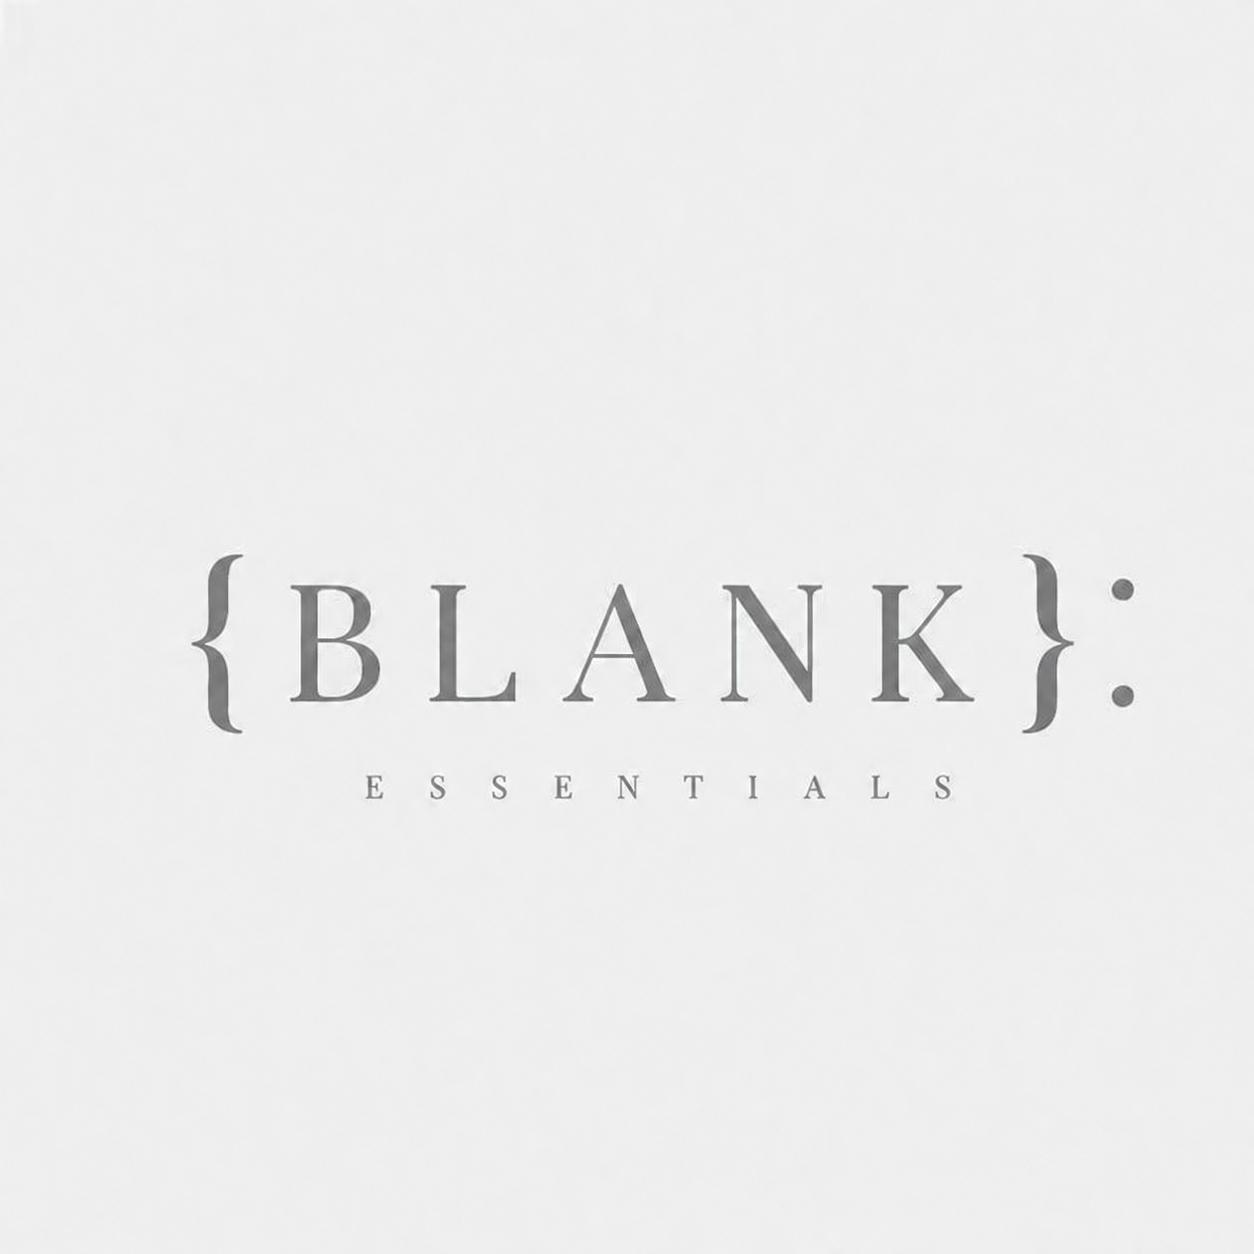
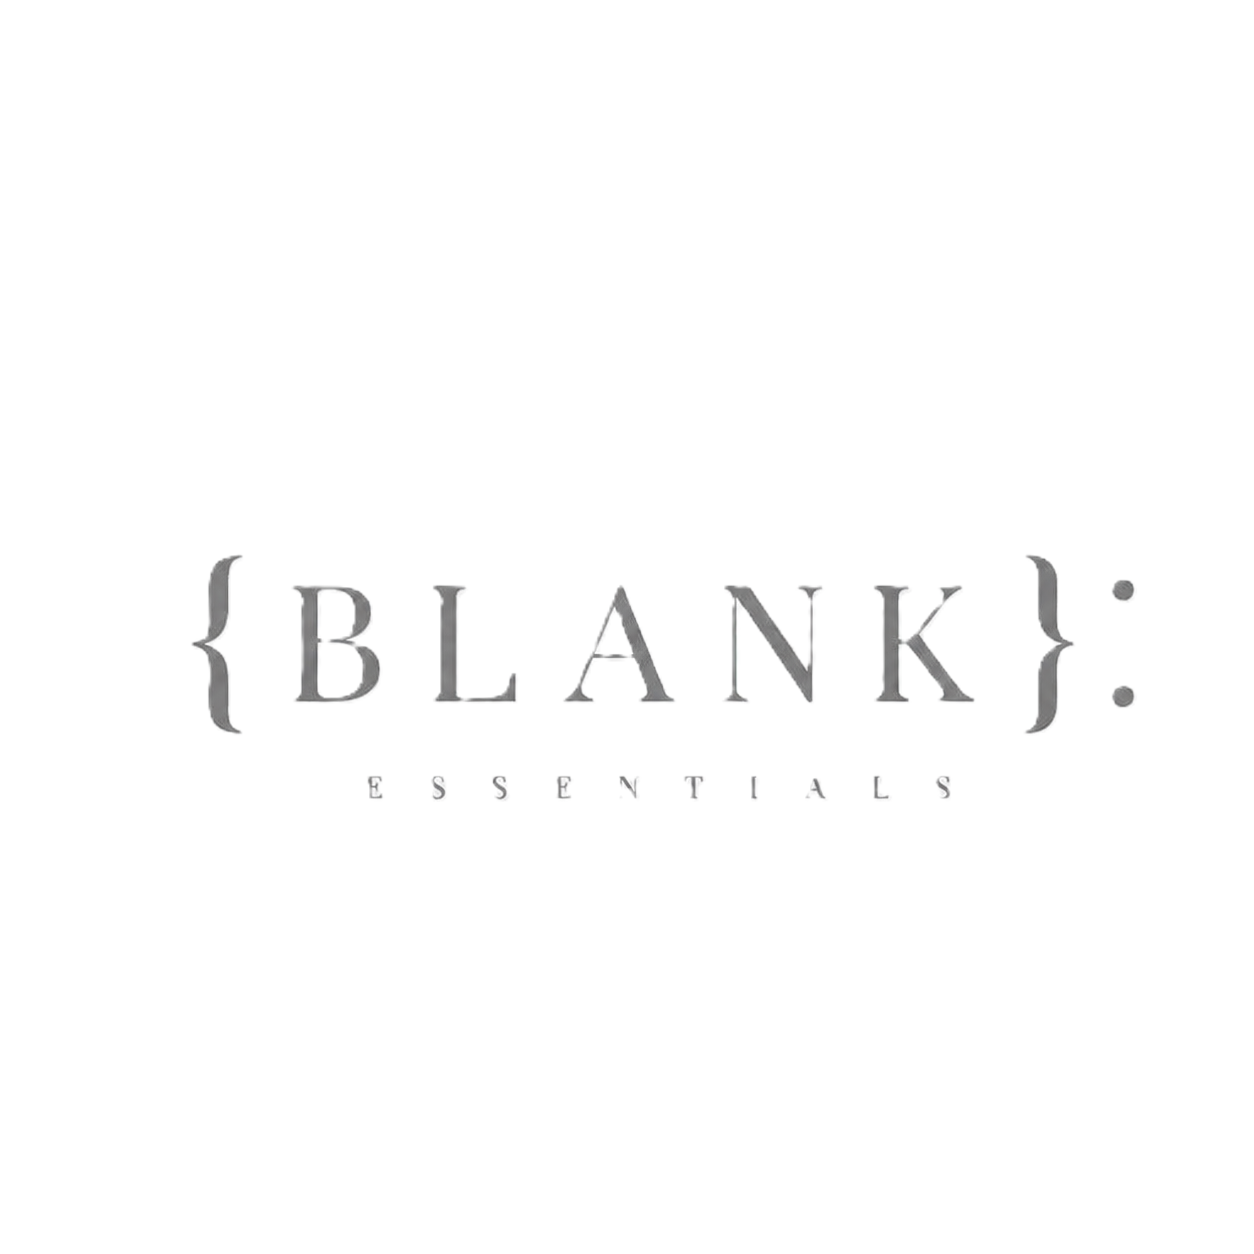
done the marquee

diff --git a/src/components/home/Marquee.jsx b/src/components/home/Marquee.jsx
@@ -11,7 +11,7 @@ const LOGO_PATHS = [
   '/client-06.png',
   '/client-07.png',
   '/client-08.png',
-  '/client-09.png',
+  '/client-09.jpeg',
   '/client-10.png',
 ];
 